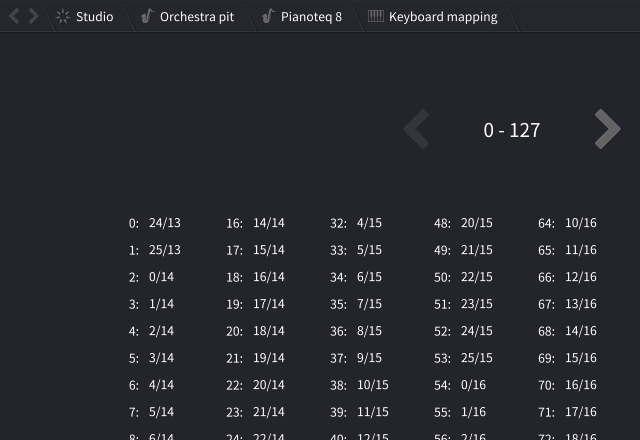
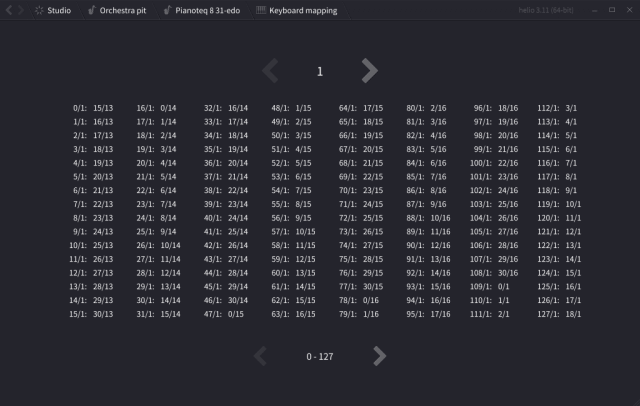
Docs housekeeping

diff --git a/Docs/getting-microtonal.md b/Docs/getting-microtonal.md
@@ -14,9 +14,11 @@ Otherwise, once you've [added an instrument](getting-started.md#instruments) to 
 
 *Note: this describes the key mapping on the host side, but you'll need to set it up on the plugin's side as well. Unfortunately, can't help you with that, as it depends on the plugin, but here's an [example](https://soundbytesmag.net/microtonality-in-falcon/).*
 
-The page allows you to adjust key mappings manually and preview the mapped keys by clicking on them. The upper limit is set to 2048 keys - this is the maximum number of keys that can fit into 16 MIDI channels. Which would be enough to handle temperaments of size up to 192-EDO:
+The page allows you to adjust key mappings manually and preview the mapped keys by clicking on them. The upper limit for each source channel is set to 2048 keys, this is the maximum number of keys that can fit into 16 target MIDI channels. 2048 keys would be enough to handle temperaments of size up to 192-EDO:
 
 ![keyboard-mapping-page]
+
+*(source channel selection at the top, channel paging at the bottom)*
 
 Some additional actions are available via context menu:
  * reset to the default mapping (modulo based),
@@ -45,14 +47,14 @@ I think that Scala kbm format is obscure and unintuitive, so let me reinvent the
 
 Let's start with an example. The entire multi-channel mapping [for Pianoteq](https://forum.modartt.com/viewtopic.php?id=4307) 31-EDO could be written like this:
 
-`0:0/14,31+ 31:0/15,31+ 62:0/16,31+ 93:0/1,31+ 124:0/2,31+ 155:0/3,31+ 186:0/4,31+ 217:0/5,31+ 248:0/6,31+ 279:0/7,31+ 310:0/8,31+`
+`0/1:0/14,31+ 31:0/15,31+ 62:0/16,31+ 93:0/1,31+ 124:0/2,31+ 155:0/3,31+ 186:0/4,31+ 217:0/5,31+ 248:0/6,31+ 279:0/7,31+ 310:0/8,31+`
 
 Which reads:
- * starting from key `0` of the piano roll, map it to the key `0` of channel `14`, then map the next `31` keys in a sequential manner: for example, key `1` maps to `1/14`, key `2` maps to `2/14`, and so on,
- * starting from key `31`, map it to the key `0` of channel `15`, and, again, map the next `31` keys sequentially,
- * and so on.
+ * starting from key `0` channel `1` of the source channel, map it to the key `0` of channel `14`, then map the next `31` keys in a sequential manner: for example, key `1` maps to `1/14`, key `2` maps to `2/14`, and so on,
+ * starting from key `31`, map it to the key `0` of channel `15`, and, again, map the next `31` keys sequentially, and so on,
+ * for each next channel the mapping will pick the key from the previous channel and increase the channel number.
 
-Similarly, the 22-EDO Pianoteq mapping would look like this:
+Source channel can be omitted, since you probably only need channel 1. E.g., the 22-EDO Pianoteq mapping would look like this:
 
 `0:0/14,22+ 22:0/15,22+ 44:0/16,22+ 66:0/1,22+ 88:0/2,22+ 110:0/3,22+ 132:0/4,22+ 154:0/5,22+ 176:0/6,22+ 198:0/7,22+ 220:0/8,22+`
 
@@ -114,7 +116,7 @@ If you're using a microtonal physical keyboard, make sure to uncheck this box so
 
 ## Examples
 
-This section will describe setting up various microtonal plugins in Helio. For now, it's just the Pianoteq example, 
+This section will describe setting up various microtonal plugins in Helio. For now, it's just a couple of examples, 
 if you managed to make any other plugin work, please [share](https://github.com/helio-fm/helio-workstation/blob/develop/Docs/getting-microtonal.md) your findings.
 
 ### Pianoteq
@@ -131,6 +133,16 @@ Steps to set up a custom equal temperament:
    * or, set up your own multi-channel mapping (see examples above on this page).
 
 For more details on all Pianoteq's tuning parameters refer to [the manual](https://www.modartt.com/user_manual?product=pianoteq&lang=en).
+
+### Surge XT
+
+Surge synth supports multi-channel mapping since recent versions of Surge XT, so a custom equal temperament can be set up similarly:
+
+ * In the main menu, open the tuning settings submenu and check these two options there:
+   * `"Use MIDI channel for octave shift"`
+   * `"Tuning applied at MIDI input"`
+ * From the same tuning submenu, load the Scala tuning (Surge installation provides a set of equal temperament tunings),
+ * Navigate to your instrument's keyboard mapping page in Helio UI and choose a keyboard mapping preset; the same Pianoteq multi-channel presets will work for Surge.
 
 
 [keyboard-mapping-page]: images/keyboard-mapping-page.png "Keyboard mapping page layout"

diff --git a/Docs/getting-started.md b/Docs/getting-started.md
@@ -302,6 +302,8 @@ To interact with it:
 
 Often, you only need one tempo for the whole song - for that, pick *"Set one tempo"* menu item in the tempo track menu, or project refactoring menu.
 
+*Tip: use `Shift +` and `Shift -` hotkeys to shift tempo tracks 1 BPM up or down. In the pattern roll it affects all selected tempo tracks, in the piano roll it affects all tempo tracks.*
+
 ### Mute and solo
 
 Individual clips can be muted via the `M` hotkey or the context menu in the pattern roll.
